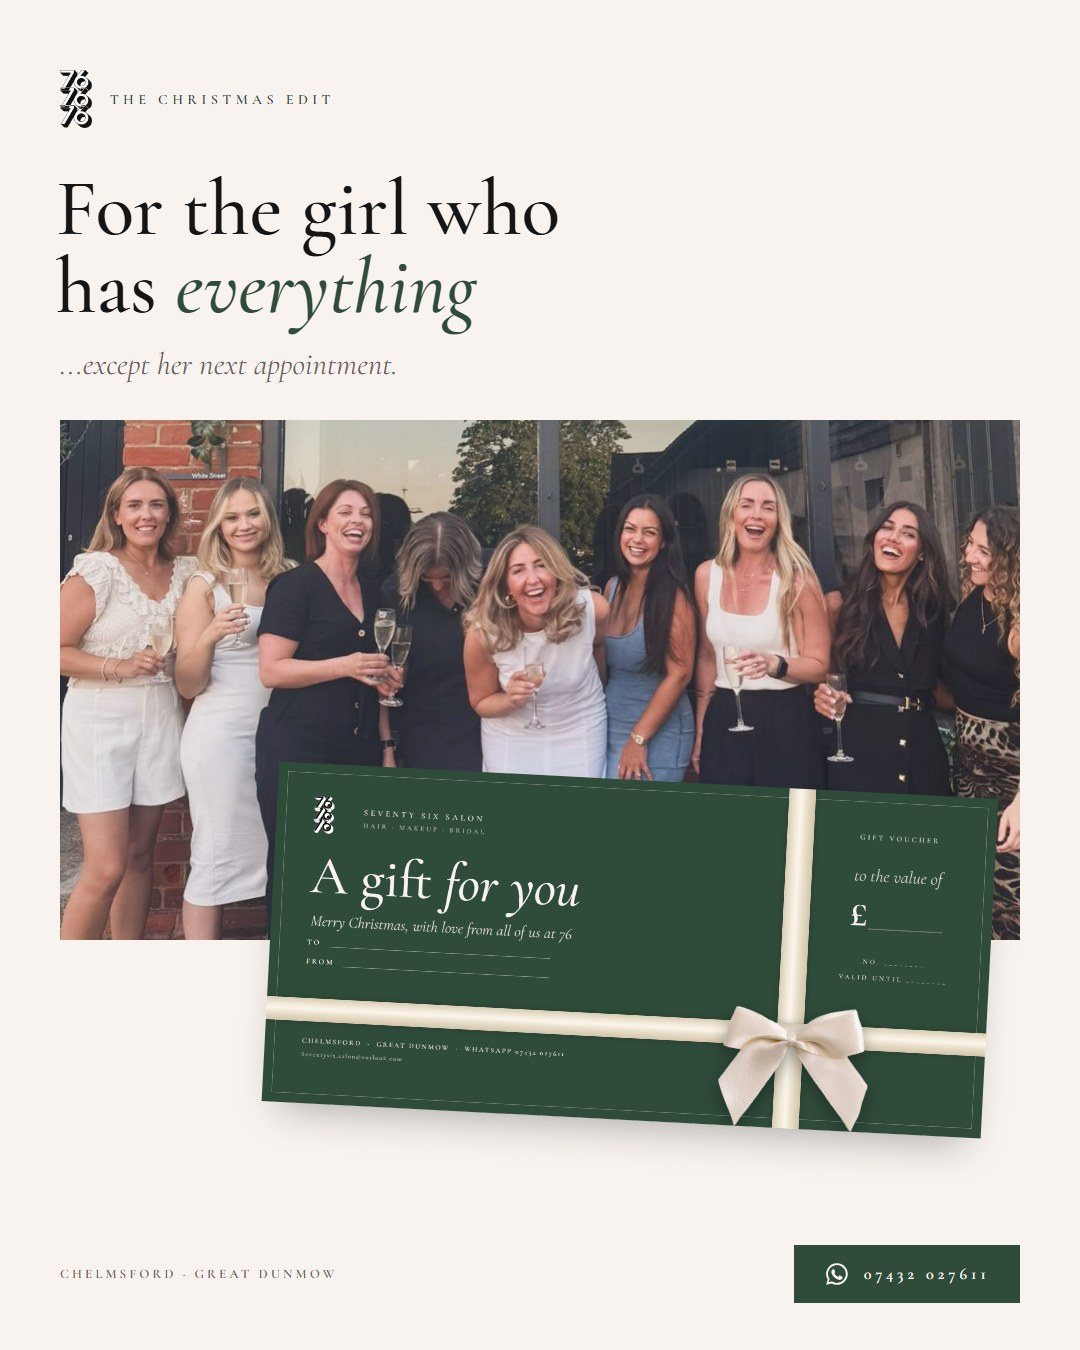
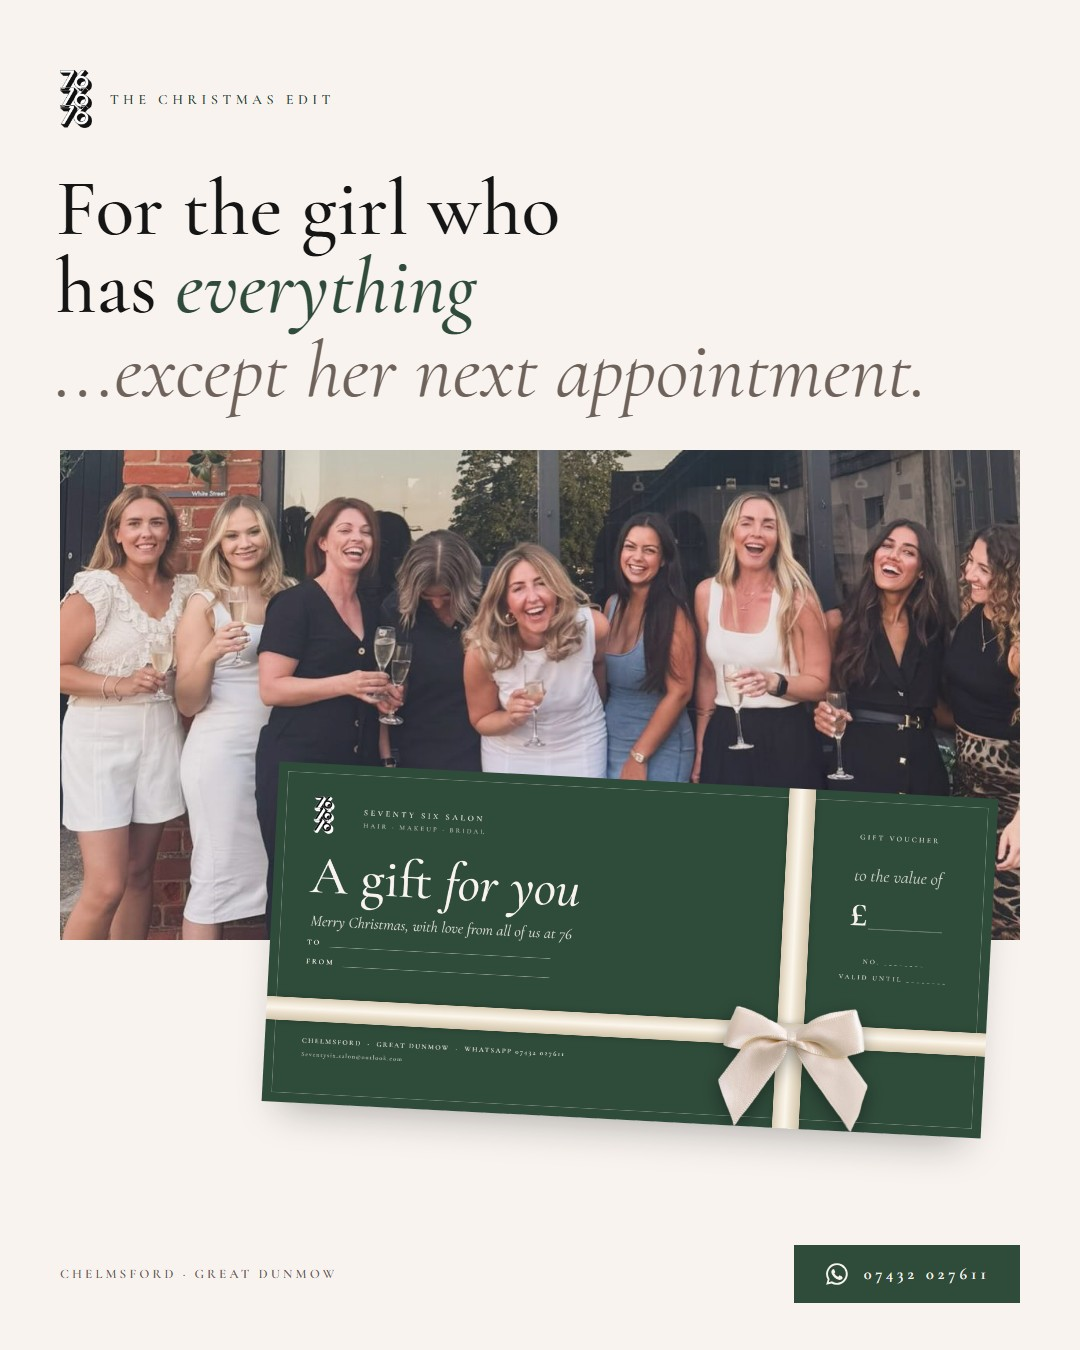
76 planner: voucher ad 4 subline same size as headline (Maria)

Changed region(s): [[0.0306, 0.2489, 0.9472, 0.7156]]

diff --git a/seventysix-planner/index.html b/seventysix-planner/index.html
@@ -356,7 +356,7 @@ Our 1:1 makeup lesson is just you and our makeup artist. With your own makeup ba
       <figure><button><img src="img/voucher-ad/ad1-feed.jpg?v=3" alt="Gift voucher ad option 1, feed" loading="lazy"></button><figcaption><b>Option 1</b> · Give her great hair</figcaption></figure>
       <figure><button><img src="img/voucher-ad/ad2-feed.jpg" alt="Gift voucher ad option 2, feed" loading="lazy"></button><figcaption><b>Option 2</b> · Christmas, sorted</figcaption></figure>
       <figure><button><img src="img/voucher-ad/ad3-feed-k.jpg" alt="Gift voucher ad option 3, feed" loading="lazy"></button><figcaption><b>Option 3</b> · The gift of great hair</figcaption></figure>
-      <figure><button><img src="img/voucher-ad/ad4-feed.jpg?v=2" alt="Gift voucher ad option 4, feed" loading="lazy"></button><figcaption><b>Option 4</b> · For the girl who has everything</figcaption></figure>
+      <figure><button><img src="img/voucher-ad/ad4-feed.jpg?v=3" alt="Gift voucher ad option 4, feed" loading="lazy"></button><figcaption><b>Option 4</b> · For the girl who has everything</figcaption></figure>
     </div>
     <div class="mu-cap"><b>Ad text</b>Christmas gift vouchers are here 🎁 Treat someone special to hair or makeup at Seventy Six, Chelmsford or Great Dunmow. Message us on WhatsApp to get yours 💚
 
@@ -392,7 +392,7 @@ Can clients buy them over WhatsApp, or in the salon only?</div>
     <div class="st-row">
       <figure><button style="position:relative"><img src="img/stories/chelm-F-bd.jpg" alt="Availability" loading="lazy"></button><figcaption><b>Mon 6:30 am</b> · Availability</figcaption></figure>
       <figure><button style="position:relative"><img src="img/stories/offer-pkg-chelm4.jpg" alt="Blowdry package £80" loading="lazy"></button><figcaption><b>Tue 6:30 am</b> · Blowdry package £80</figcaption></figure>
-      <figure><button style="position:relative"><img src="img/voucher-ad/ad4-story.jpg" alt="Gift vouchers" loading="lazy"></button><figcaption><b>Wed 6:30 am</b> · Gift vouchers</figcaption></figure>
+      <figure><button style="position:relative"><img src="img/voucher-ad/ad4-story.jpg?v=9" alt="Gift vouchers" loading="lazy"></button><figcaption><b>Wed 6:30 am</b> · Gift vouchers</figcaption></figure>
       <figure><button style="position:relative"><img src="img/stories/repost-chelm.jpg" alt="Availability repost (Tue + Thu crossed off)" loading="lazy"></button><figcaption><b>Thu 6:30 am</b> · Availability repost (Tue + Thu crossed off)</figcaption></figure>
       <figure><button style="position:relative"><img src="img/stories/offer-emmabf.jpg" alt="Emma £150 colour, last call before Friday" loading="lazy"></button><figcaption><b>Thu 6:30 am</b> · Emma £150 colour, last call before Friday</figcaption></figure>
       <figure><button style="position:relative"><img src="img/makeup/mua-story-chelm-o4.jpg" alt="1:1 makeup lesson" loading="lazy"></button><figcaption><b>Fri 6:30 am</b> · 1:1 makeup lesson</figcaption></figure>
